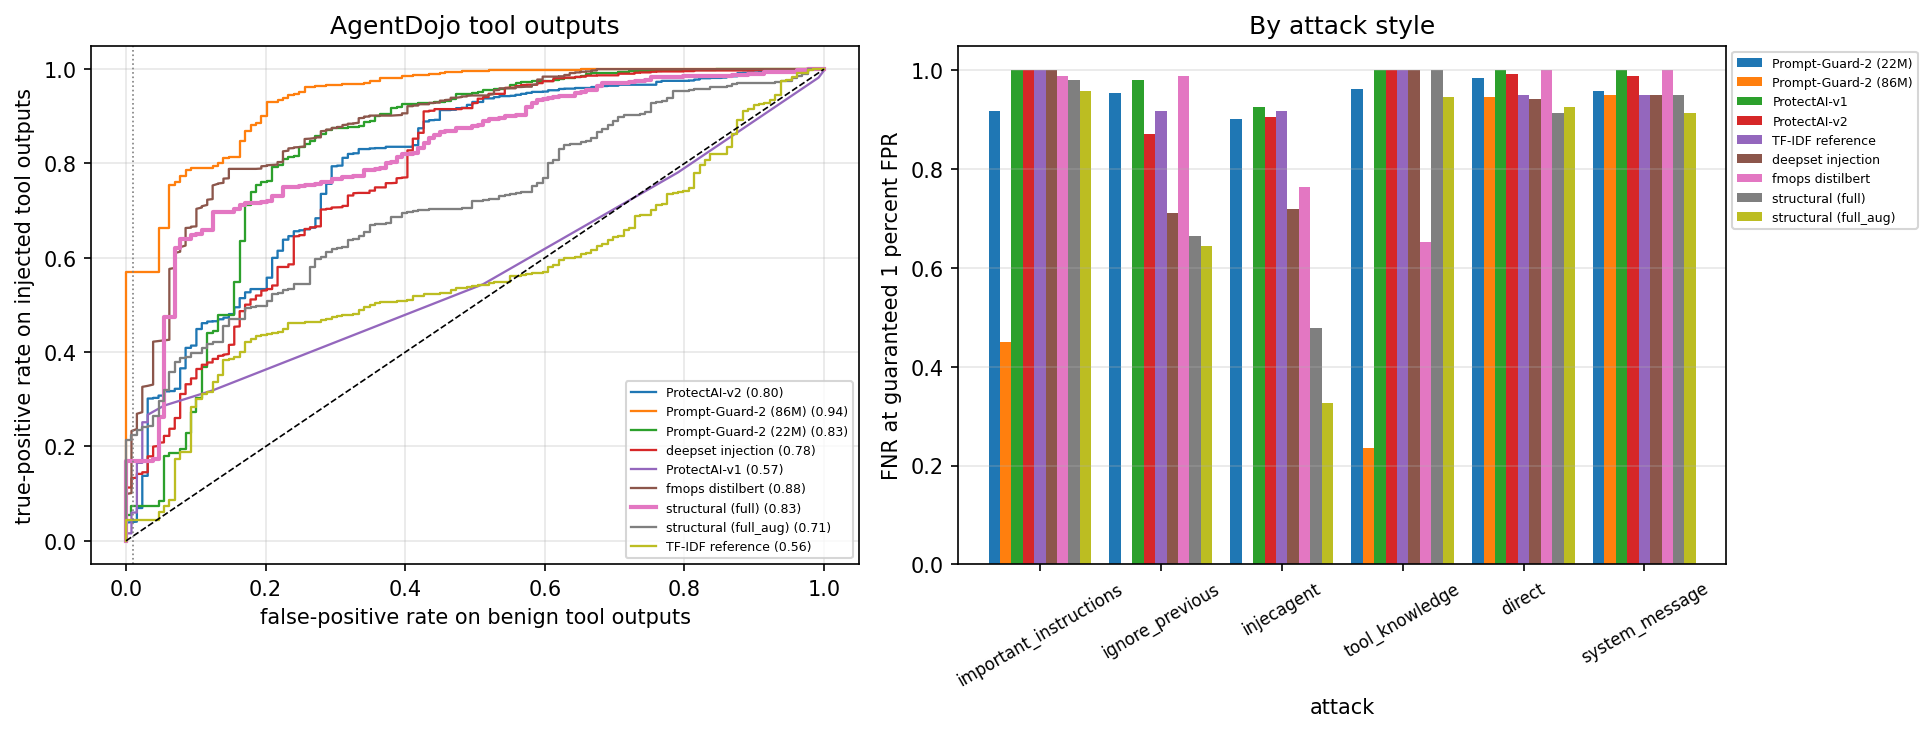
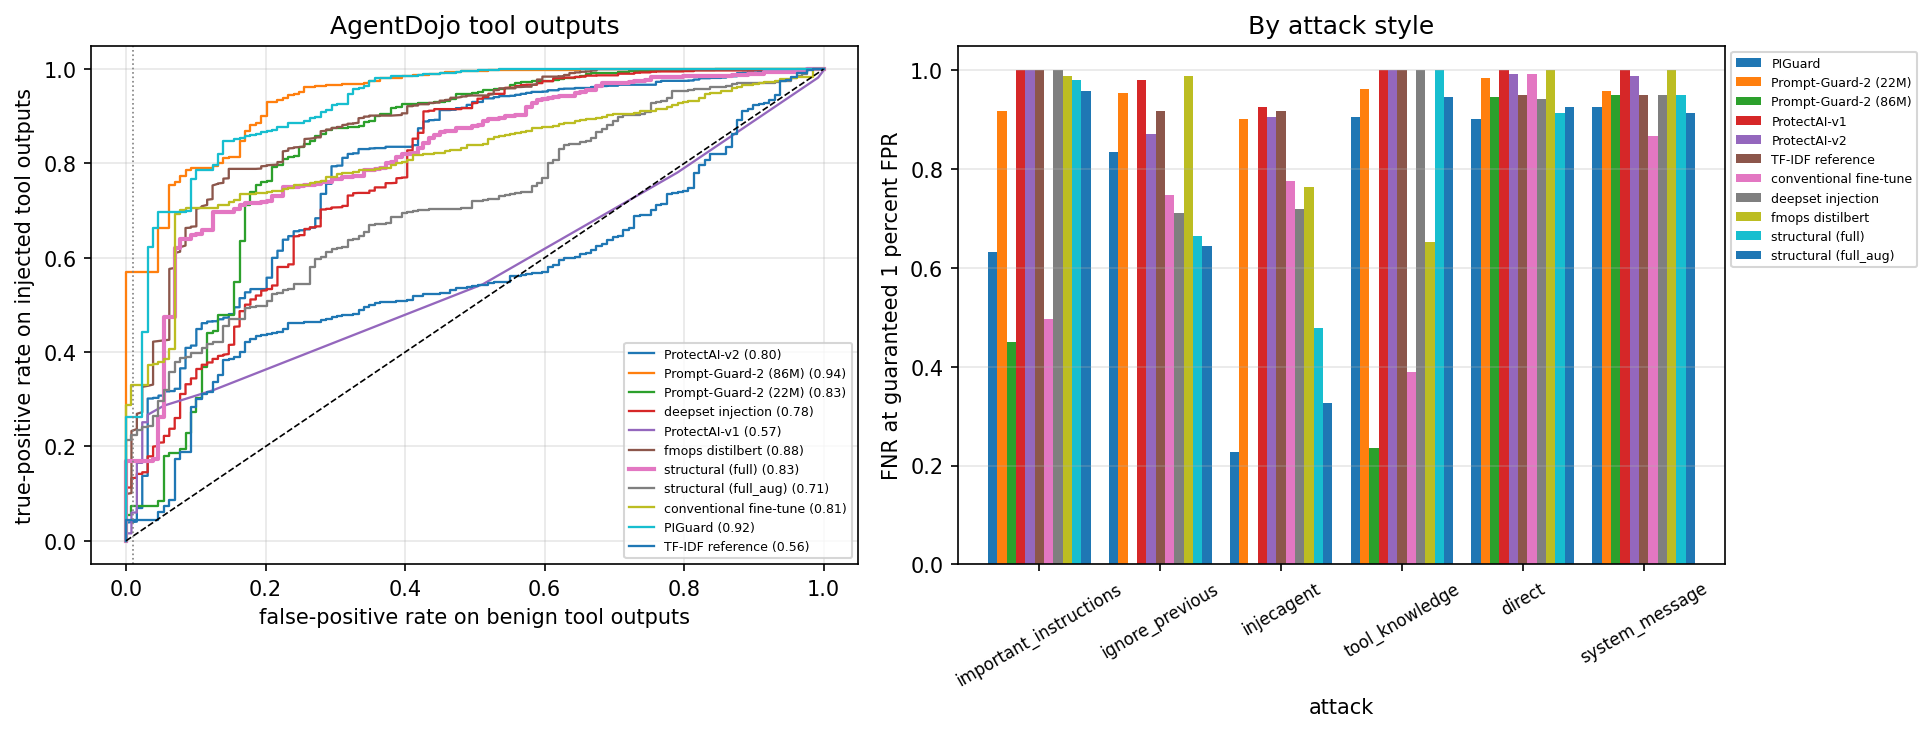
nb25: AgentDojo tool-output matched set (six attack styles, four suites) scored by every detector, slot-level bootstrap intervals; add src/agentdojo_source.py

diff --git a/reports/RESULTS_LOG.md b/reports/RESULTS_LOG.md
@@ -1209,3 +1209,54 @@ Prompt-Guard-2 (22M) indirect_harmful               0.017 0.900 [0.817, 0.967] 0
 Prompt-Guard-2 (22M)  indirect_hijack               0.000 0.967 [0.933, 0.993] 0.967 [0.933, 0.993]                    0.030
 Prompt-Guard-2 (22M)        jailbreak               0.005 0.083 [0.058, 0.114] 0.088 [0.061, 0.121]                    0.028
 ```
+
+
+---
+## nb25: AgentDojo tool-output matched set, all scorers
+_2026-09-28 05:24_
+
+```
+AgentDojo overall:
+                 model  AUROC  AUROC_lo95  AUROC_hi95  pAUC05  FNR_guar  FNR_guar_lo95  FNR_guar_hi95
+          ProtectAI-v2  0.798       0.742       0.852   0.569     0.959          0.928          0.983
+  Prompt-Guard-2 (86M)  0.940       0.918       0.959   0.783     0.430          0.389          0.472
+  Prompt-Guard-2 (22M)  0.828       0.772       0.874   0.524     0.946          0.898          0.988
+     deepset injection  0.785       0.724       0.841   0.567     0.887          0.834          0.937
+          ProtectAI-v1  0.569       0.533       0.609   0.580     0.984          0.963          0.999
+      fmops distilbert  0.881       0.837       0.919   0.636     0.899          0.868          0.929
+     structural (full)  0.827       0.768       0.877   0.577     0.831          0.778          0.883
+ structural (full_aug)  0.712       0.654       0.769   0.611     0.786          0.747          0.824
+conventional fine-tune  0.814       0.745       0.874   0.662     0.711          0.612          0.819
+               PIGuard  0.925       0.895       0.950   0.712     0.738          0.659          0.808
+      TF-IDF reference  0.561       0.486       0.634   0.510     0.956          0.911          0.990
+
+By attack (FNR_guar):
+attack                  direct  ignore_previous  important_instructions  injecagent  system_message  tool_knowledge
+model                                                                                                              
+PIGuard                  0.901            0.835                   0.632       0.227           0.926           0.905
+Prompt-Guard-2 (22M)     0.983            0.955                   0.917       0.901           0.959           0.963
+Prompt-Guard-2 (86M)     0.946            0.000                   0.450       0.000           0.950           0.236
+ProtectAI-v1             1.000            0.979                   1.000       0.926           1.000           1.000
+ProtectAI-v2             0.992            0.872                   1.000       0.905           0.988           1.000
+TF-IDF reference         0.950            0.917                   1.000       0.917           0.950           1.000
+conventional fine-tune   0.992            0.748                   0.496       0.777           0.868           0.388
+deepset injection        0.942            0.711                   1.000       0.719           0.950           1.000
+fmops distilbert         1.000            0.988                   0.988       0.764           1.000           0.653
+structural (full)        0.913            0.665                   0.979       0.479           0.950           1.000
+structural (full_aug)    0.926            0.645                   0.959       0.326           0.913           0.946
+
+By suite (AUROC):
+suite                   slack  travel  workspace
+model                                           
+PIGuard                 0.984   0.986      0.947
+Prompt-Guard-2 (22M)    0.817   0.932      0.801
+Prompt-Guard-2 (86M)    0.898   0.990      0.930
+ProtectAI-v1            0.452   0.529      0.601
+ProtectAI-v2            0.812   0.901      0.832
+TF-IDF reference        0.650   0.602      0.578
+conventional fine-tune  1.000   0.849      0.924
+deepset injection       0.640   0.975      0.892
+fmops distilbert        0.963   0.991      0.931
+structural (full)       0.592   0.816      0.878
+structural (full_aug)   0.721   0.896      0.735
+```
